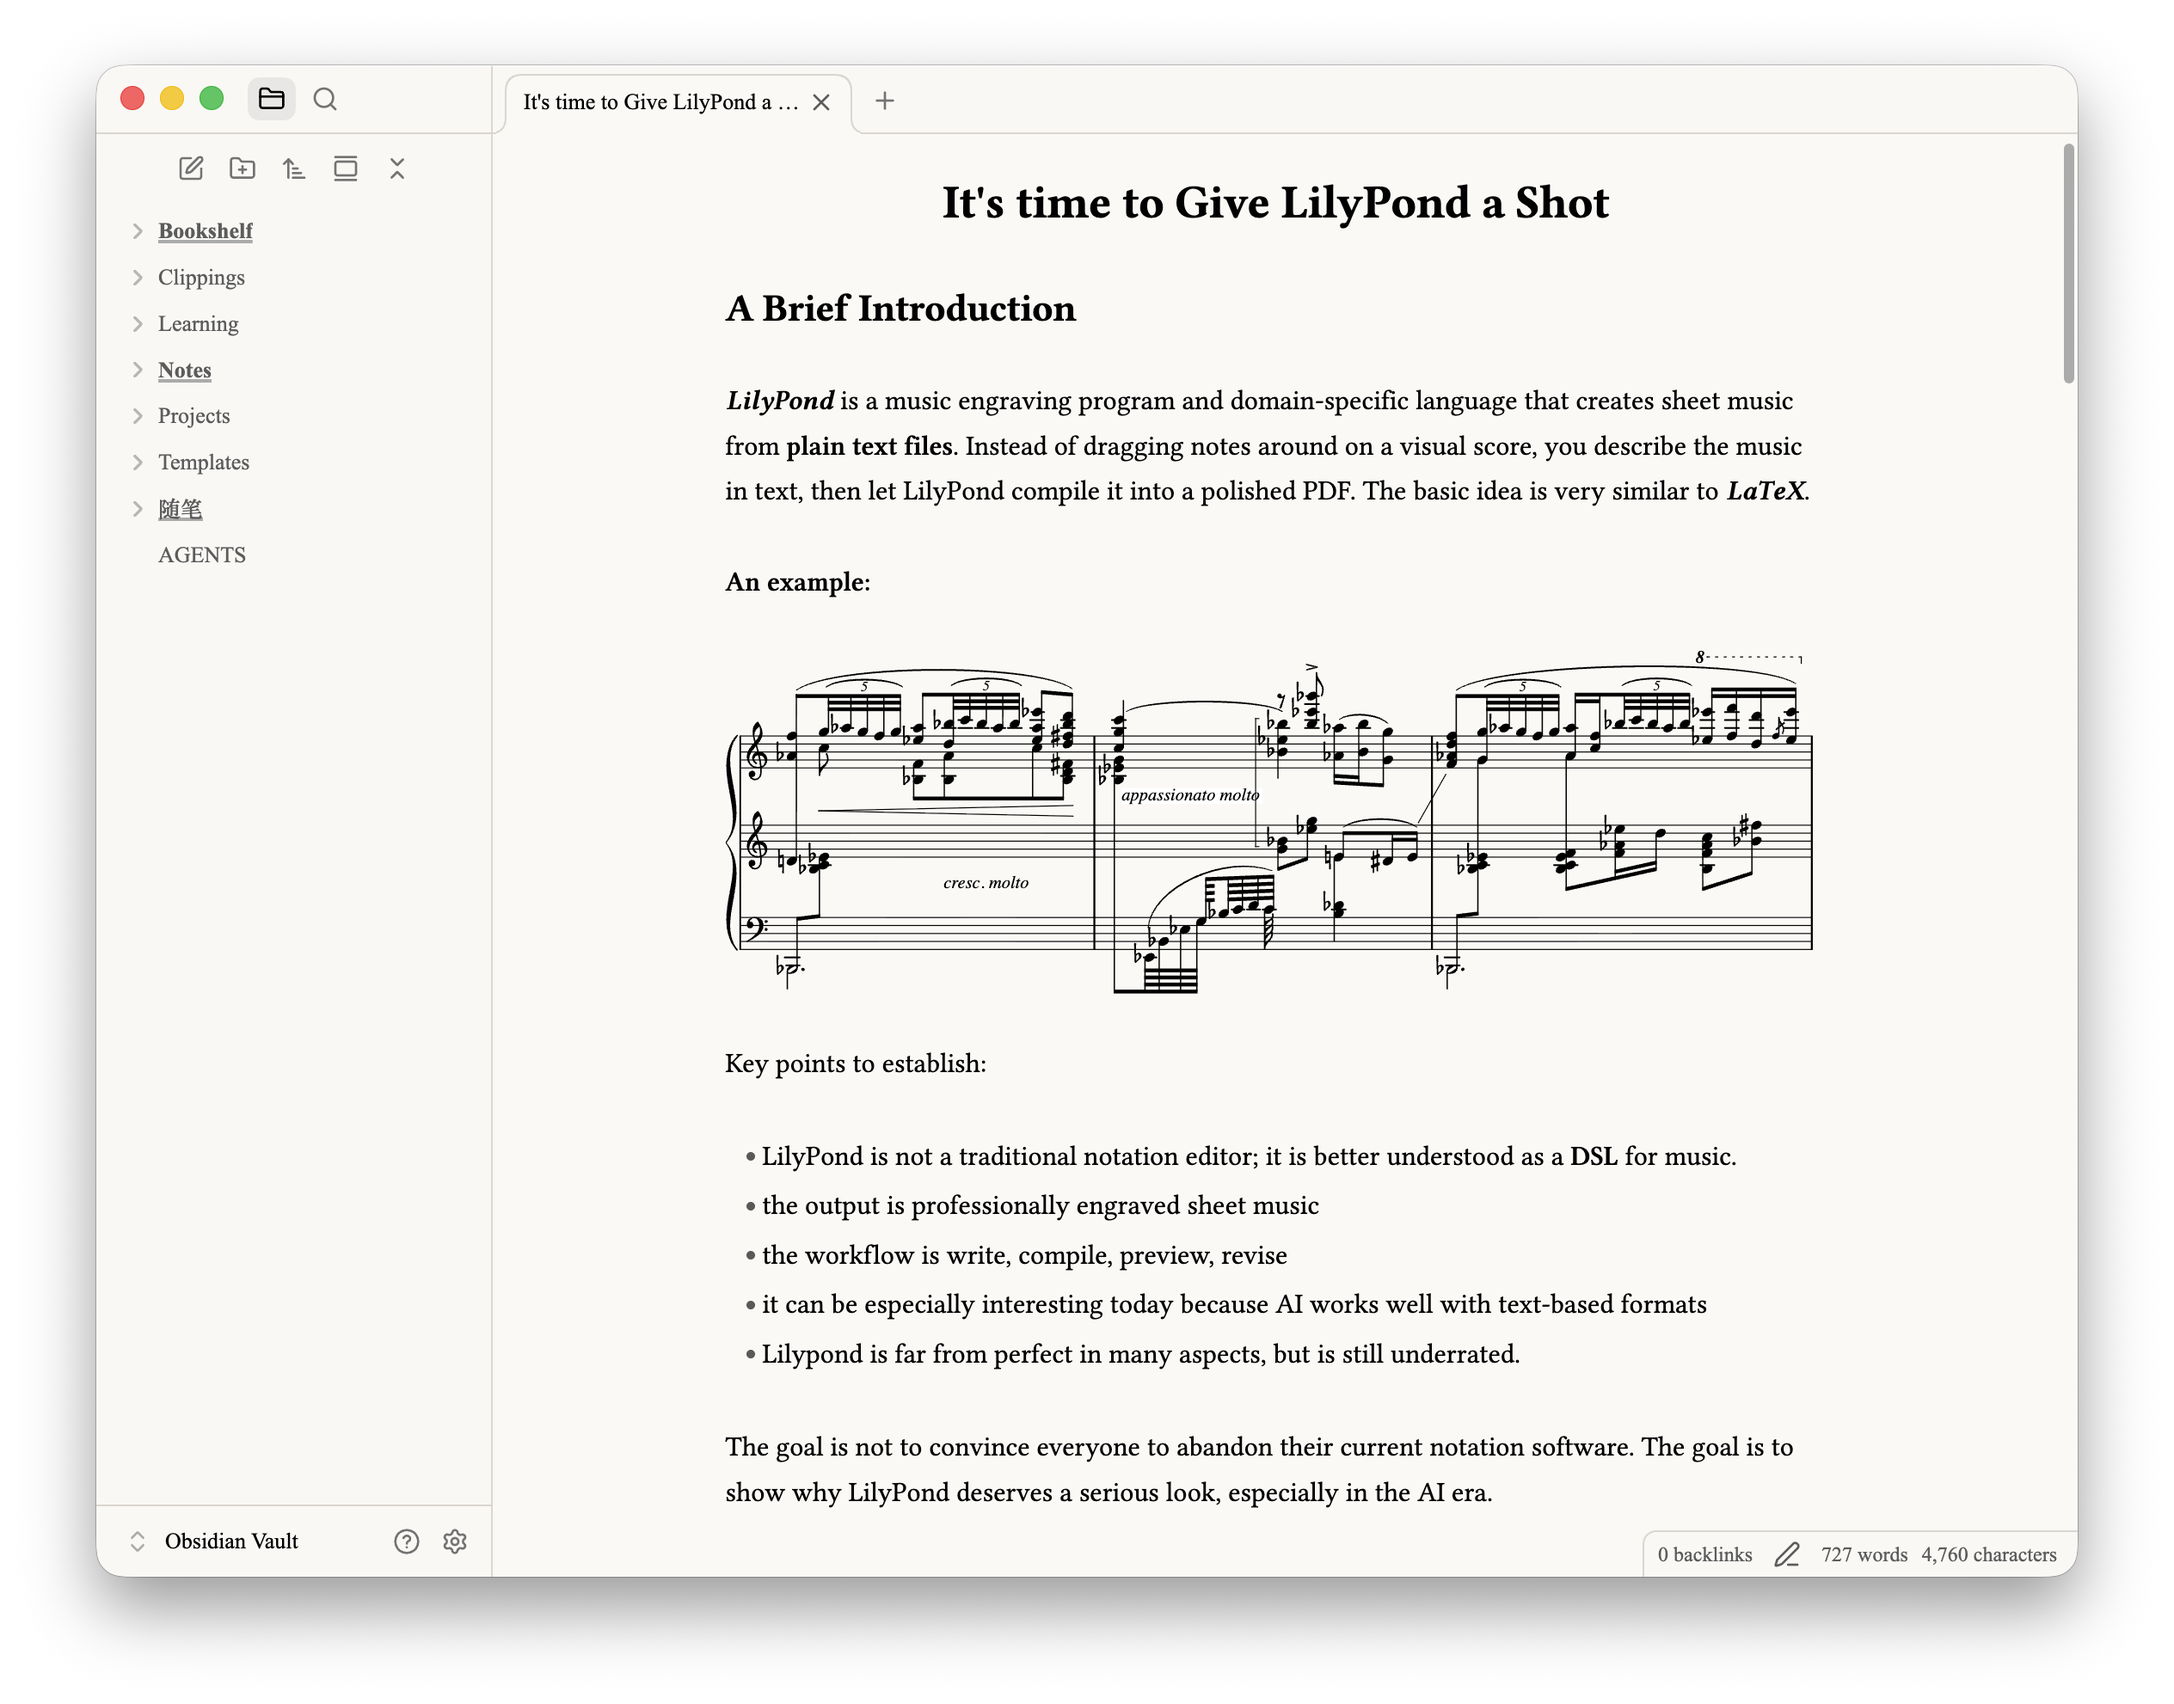
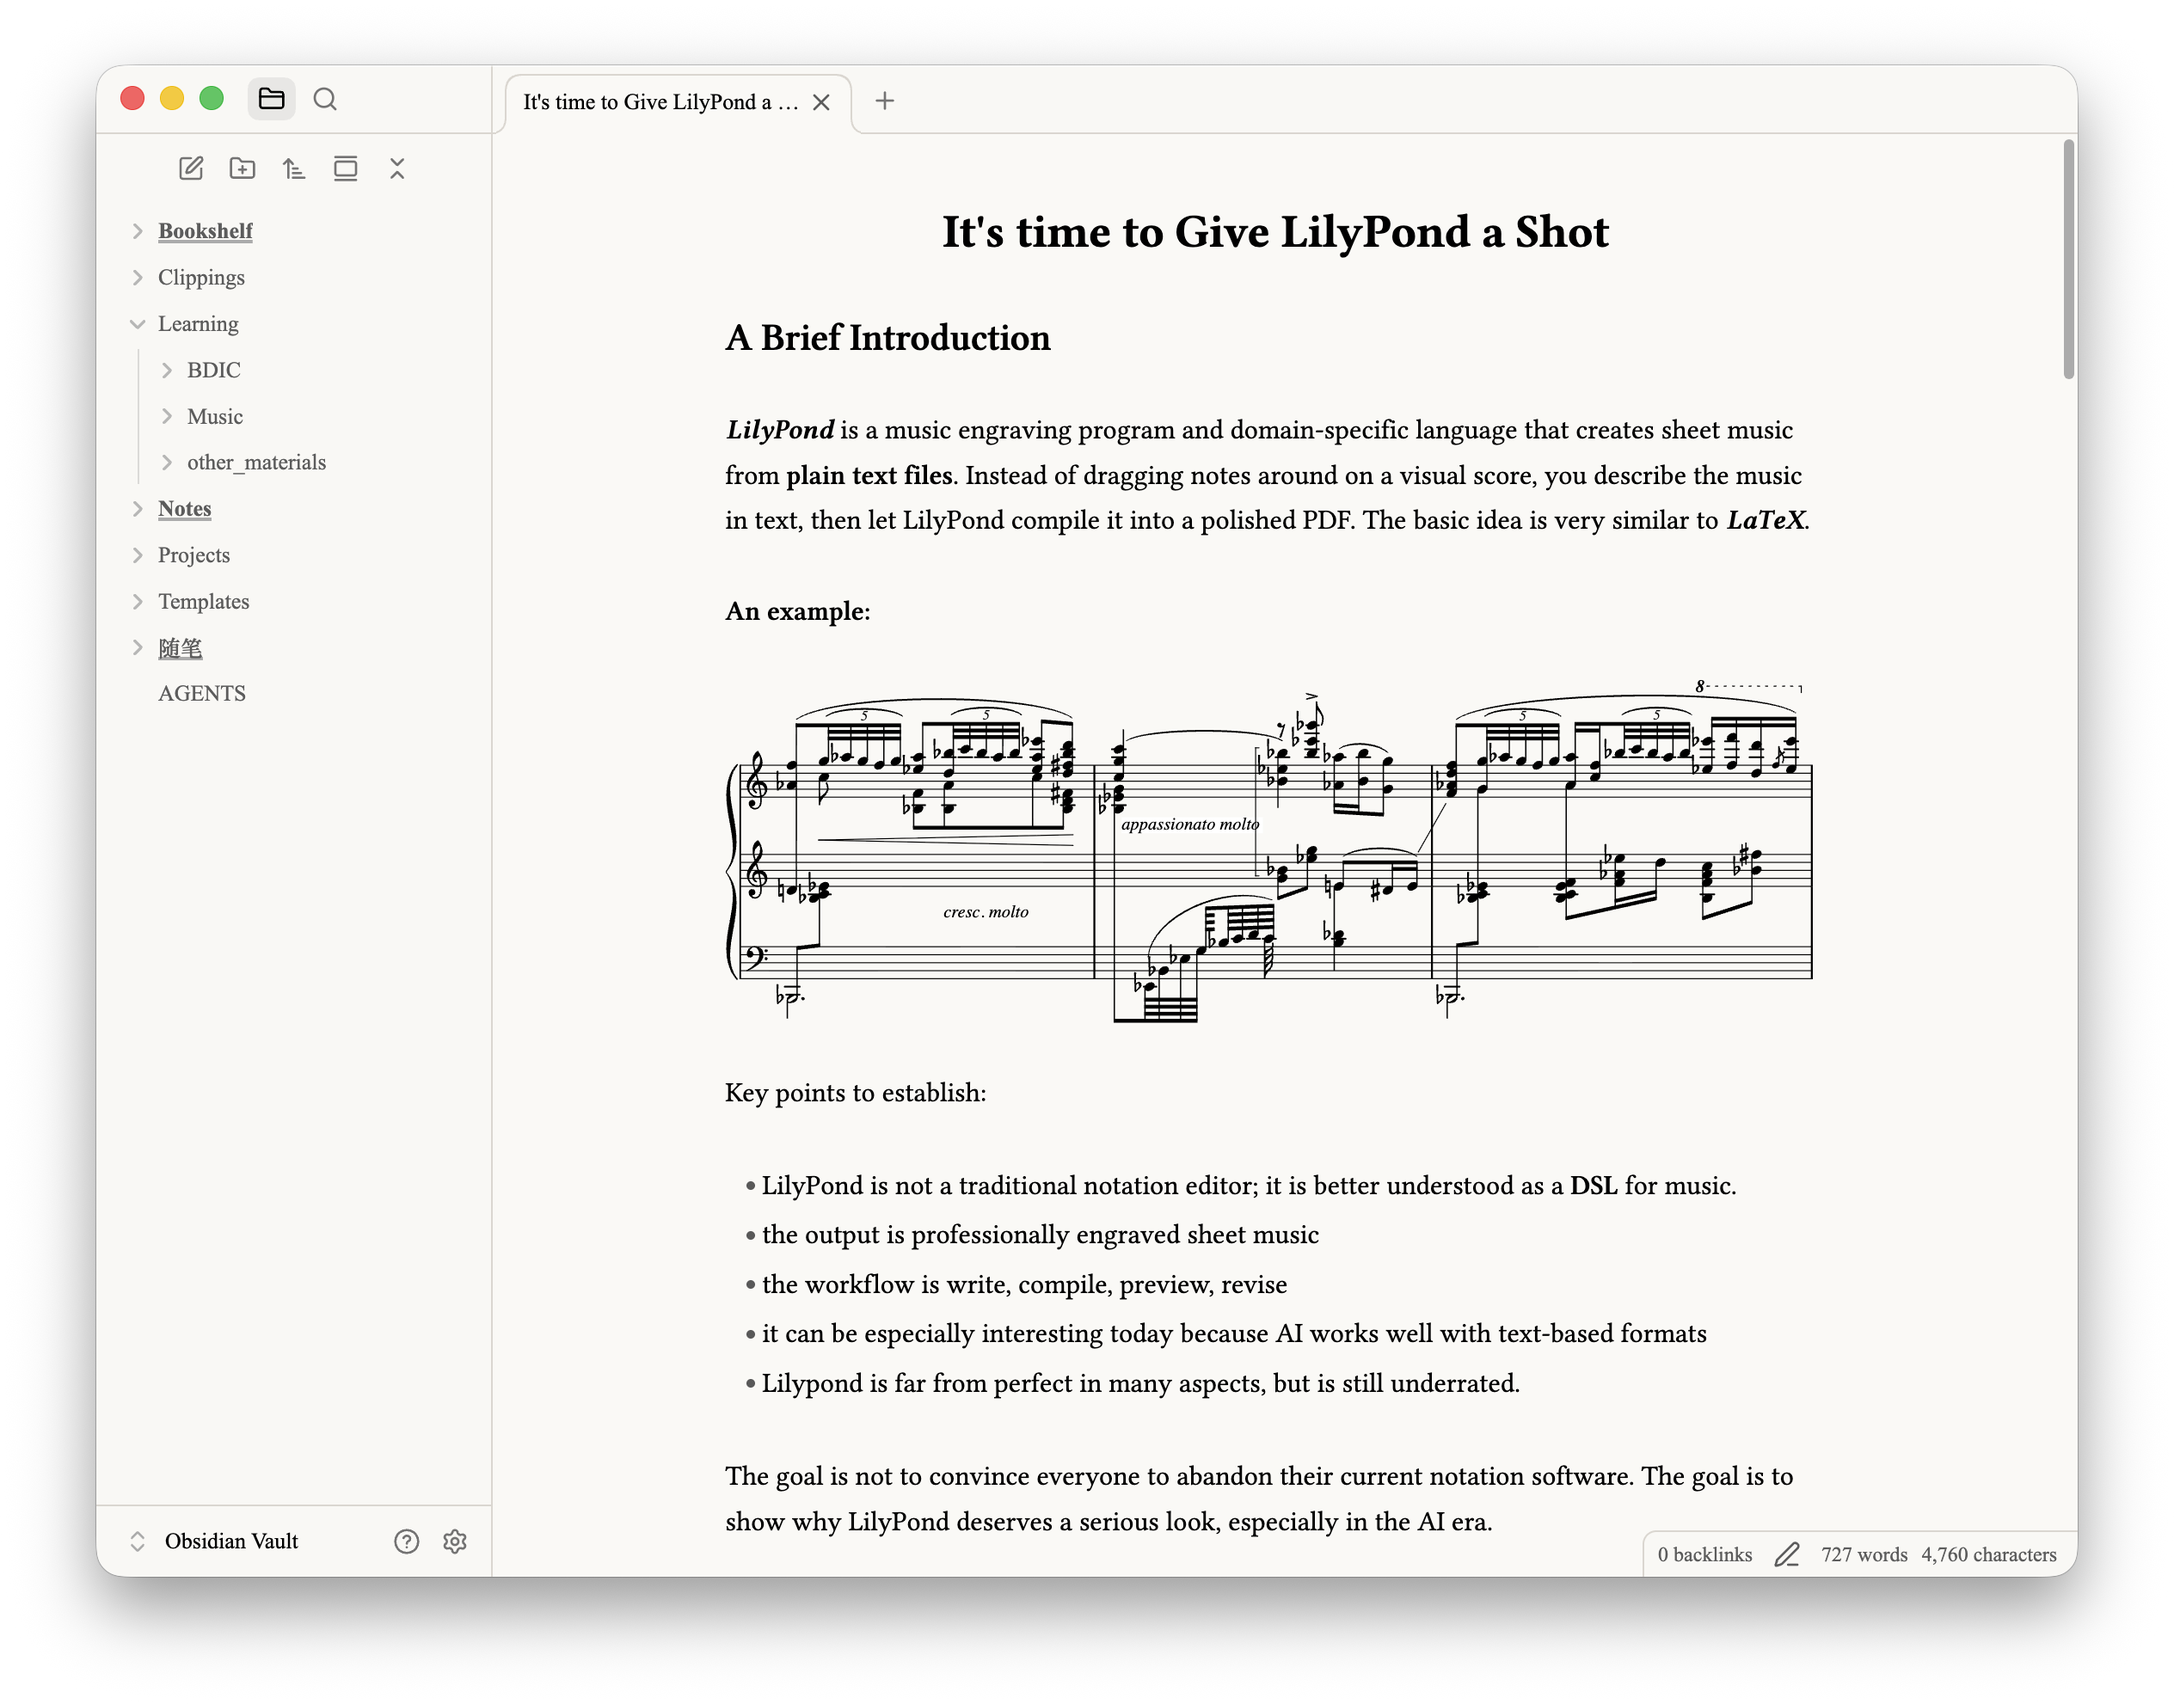
Improve headings

diff --git a/theme.css b/theme.css
@@ -4,7 +4,7 @@
 =======================================================================
 Composed for Obsidian
 =======================================================================
-Version: 1.1.0
+Version: 1.1.1
 Description: Clean, paper-like aesthetic with consistent behavior
              across Reading Mode and Live Preview Mode.
              PDF/Print export optimized for publishable book quality.
@@ -66,8 +66,8 @@ body {
     --h5-line-height: var(--paper-heading-line-height);
     --h6-line-height: var(--paper-heading-line-height);
     --h1-weight: 700;
-    --h2-weight: 650;
-    --h3-weight: 625;
+    --h2-weight: 640;
+    --h3-weight: 620;
     --h4-weight: 600;
     --h5-weight: 600;
     --h6-weight: 600;
